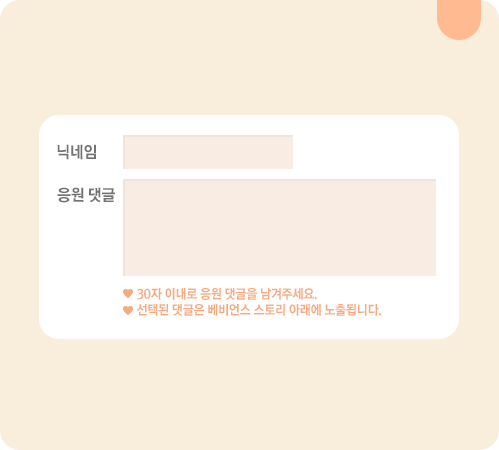
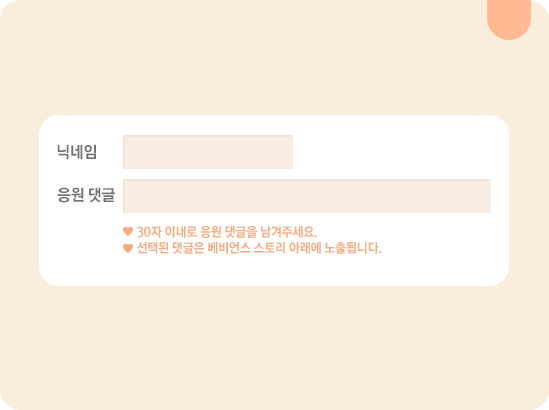
업데이트

diff --git a/PC/css/style_yang.css b/PC/css/style_yang.css
@@ -598,8 +598,8 @@ body.main{
 .popup_wrap .p_position.p_mid_comment{
 	background:url(../images/popup/bg_comment.png) no-repeat top left;
 	position:relative;
-	width:500px;
-	height:450px;
+	width:550px;
+	height:410px;
 }
 .popup_wrap .p_position.p_mid_comment .title{
 	padding-top:64px;
@@ -611,12 +611,12 @@ body.main{
 	width:100%;
 }
 .popup_wrap .p_position.p_mid_comment .block_input .input_one.textarea {
-	padding-top:7px;
+	padding-top:8px;
 	padding-bottom:90px;
 }
 .popup_wrap .p_position.p_mid_comment .block_input .input_one.textarea textarea{
-	width:300px;
-	height:80px;
+	width:358px;
+	height:23px;
 	font-size:14px;
 	line-height:18px;
 	font-weight:bold;

diff --git a/MOBILE/css/style.css b/MOBILE/css/style.css
@@ -8,7 +8,7 @@
 	font-family:Gotham, "Helvetica Neue", Helvetica, Arial, sans-serif;
 }
 body{
-	background:#fff;
+	background:#f9eddc;
 }
 
 .wrap_page{
@@ -323,7 +323,10 @@ body{
 	text-indent:-99999px;
 }
 
-
+.sec_footer{
+	background:#fff;
+	margin-top:-2%;
+}
 .sec_footer,
 .sec_footer img{
 	width:100%;
@@ -870,7 +873,7 @@ body{
 }
 
 .popup_wrap .p_position .block_content .inner .block_input .input_txt textarea{
-	height:60px;
+	height:40px;
 }
 .popup_wrap .p_position .block_content .inner .block_input .input_txt.name input{
 	width:70%;

diff --git a/MOBILE/m_popup_input_comment.html b/MOBILE/m_popup_input_comment.html
@@ -13,7 +13,7 @@ initial-scale=1.0, maximum-scale=3.0"/>
 
 </head>
 
-<body style="background:#3d3303;">
+<body>
 
    
    

diff --git a/MOBILE/certificate.php b/MOBILE/certificate.php
@@ -14,19 +14,18 @@
 <!doctype html>
 <html>
   <head>
-    <title>belif bomb</title>
+    <title>Babience</title>
     <meta charset="UTF-8">
     <meta name="viewport" content="width=device-width, initial-scale=1">
     <meta http-equiv="X-UA-Compatible" content="IE=edge" />
     <meta name="viewport" content="width=device-width,initial-scale=1.0,minimum-scale=1.0,maximum-scale=1.0" />
-    <meta property="og:title" content="Babience Relay">
+    <meta property="og:title" content="베비언스">
     <meta property="og:type" content="website" />
     <meta property="og:url" content="<?=$long_url	?>" />
     <meta property="og:image" content="<?=$member_info['mb_image']?>" />
     <meta property="og:description" content="우리 아기 몸과 마음 모두 성장하는 기부 앤 테이크 릴레이 캠페인에 꼭 참여해주세요!">
 
-    <link rel="shortcut icon" type="image/x-icon" href="./images/icon/favicon.ico" />
-    <title>Babience</title>
+    <link rel="shortcut icon" type="image/x-icon" href="./images/favicon.ico" />
     <link rel="stylesheet" type="text/css" href="../lib/Magnific-Popup/magnific-popup.css"> 
     <link rel="stylesheet" type="text/css" href="./css/style.css"> 
     <link rel="stylesheet" href="../lib/iCheck/skins/all.css">
